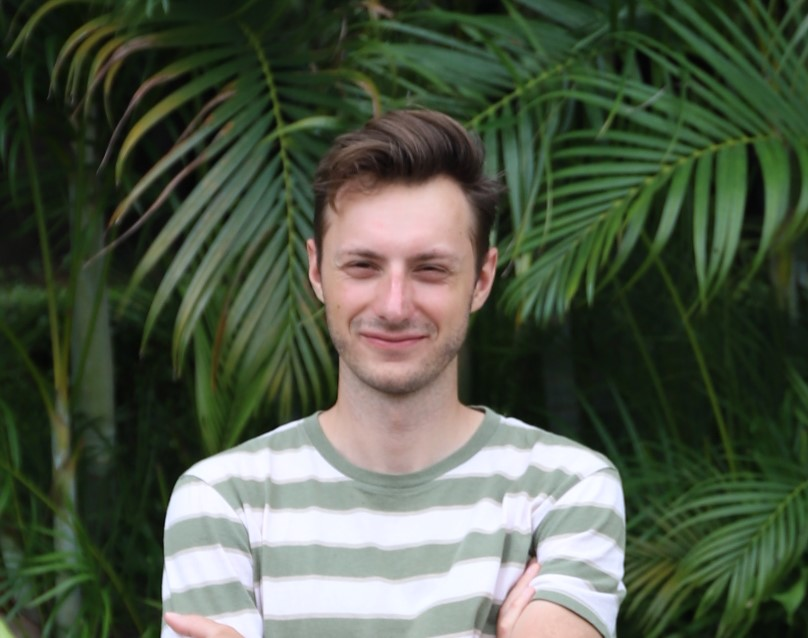
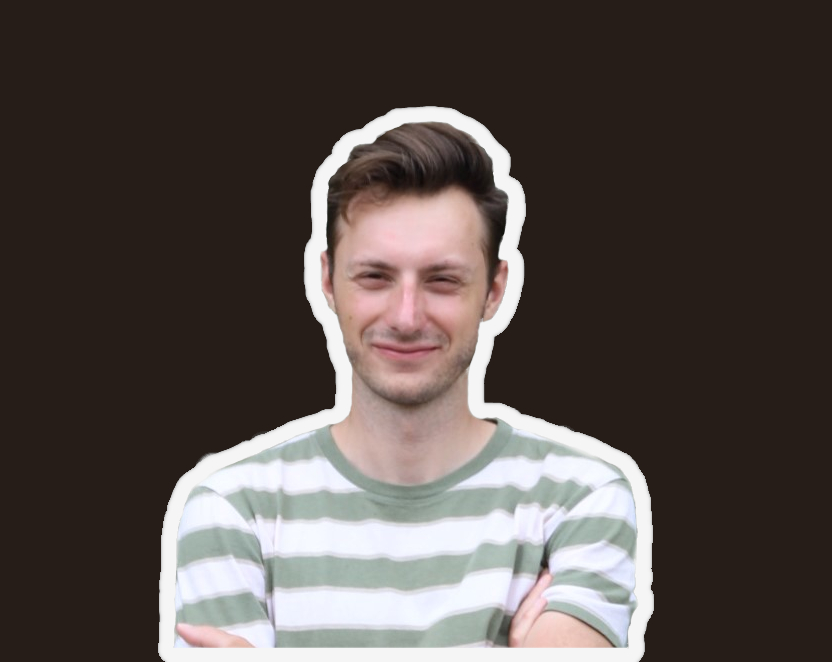
changed my image and header font styling

diff --git a/CSS/Style.css b/CSS/Style.css
@@ -2,14 +2,14 @@
 :root {
   --header: #00000020;
   --background: #EEEBE6;
-  --secondary: #36556d;
+  --secondary-background: #36556d;
   --highlight: #8AB5BB;
   --content-box: #F5F5F5;
-  --font1: #FFFFFF;
-  --font2: #000000E0;
-  --accent: #FFFFFF;
-  --accent2: #000000;
-  --accent3: #61A85680;
+  --font-bright: #FFFFFF;
+  --font-dark: #000000E0;
+  --accent-bright: #FFFFFF;
+  --accent-dark: #000000;
+  --accent-mid: #245357;
 }
 
 body,
@@ -38,7 +38,7 @@ header {
   background-color: var(--header);
   backdrop-filter: blur(5px);
   justify-content: space-between;
-  border-bottom: solid 1px var(--accent);
+  border-bottom: solid 1px var(--accent-bright);
 }
 
 /* SECTIONS LAYOUT AND STYLE */
@@ -60,7 +60,7 @@ footer {
   height: 100vh;
   width: 100%;
   scroll-snap-align: start;
-  background-color: var(--secondary);
+  background-color: var(--secondary-background);
 }
 
 ul {
@@ -123,7 +123,7 @@ a {
   font-family: Josefin Sans;
   font-size: 1.5em;
   text-decoration: none;
-  color: var(--font2);
+  color: var(--font-dark);
   transition: color 0.2s;
 }
 
@@ -143,7 +143,7 @@ h1 {
   font-family: 'Josefin Sans', sans-serif;
   font-size: 4rem;
   font-weight: bold;
-  color: var(--font1);
+  color: var(--font-bright);
 }
 
 header h1 {
@@ -154,7 +154,7 @@ h2 {
   font-family: 'Josefin Sans', sans-serif;
   font-size: 3rem;
   font-weight: bold;
-  color: var(-/-font2);
+  color: var(--font-dark);
   margin-top: 0;
 }
 
@@ -198,34 +198,10 @@ p {
   flex-direction: column;
   justify-content: space-between;
   font-size: 3rem;
-  color: var(--font1);
+  color: var(--font-bright);
 }
 
 /* SECTION ONE - HOME */
-
-/* #one-quote-container {
-  grid-column: 2/span 2;
-  grid-row: 2/span 2;
-  display: block;
-  padding: 0px 40px 0px 40px;
-  height:fit-content;
-  width: fit-content;
-  z-index: 2;
-  margin-top: 2rem;
-}
-
-#one-quote-container p:nth-child(1) {
-  color: var(--font2);
-  font-size: 1.5rem;
-  font-style: italic;
-  margin: 0;
-}
-
-#one-quote-container p:nth-child(2) {
-  color: var(--secondary);
-  text-align: end;
-  margin: 5px;
-} */
 
 #one-heading-container {
   grid-column: 2/span 2;
@@ -235,9 +211,9 @@ p {
   flex-direction: column;
   row-gap: 3px;
   justify-content: center;
-  color: var(--font1);
-  mix-blend-mode: difference;
-  color: var(--font1);
+  color: var(--accent-mid);
+  text-shadow: 3px 3px var(--highlight);
+  font-weight: bold;
 }
 
 #one-heading-container h1 {
@@ -245,7 +221,8 @@ p {
   margin: 0;
   margin-left: 40px;
   transform: translate(0px, 4.5rem);
-  /* color: white; */
+  color: var(--content-box);
+  text-shadow: 4px 3px var(--highlight);
 }
 
 #one-heading-container p {
@@ -296,13 +273,14 @@ p {
   z-index: 0;
   max-width: 100%;
   height: auto;
+  background-color: var(--secondary-background);
 }
 
 #introduction {
   display: flex;
   align-items: center;
   text-align: left;
-  color: var(--font2);
+  color: var(--font-dark);
   height: auto;
 }
 
@@ -366,7 +344,7 @@ p {
   grid-row: 2;
   margin-left: 40px;
   text-align: left;
-  color: var(--font2);
+  color: var(--font-dark);
 }
 
 #four-content-container {
@@ -391,8 +369,8 @@ p {
   min-width: 200px;
   display: block;
   padding: 5px;
-  background-color: white;
-  border: solid 2px var(--font2);
+  background-color: var(--content-box);
+  border: solid 1px var(--font-dark);
   border-radius: 15px;
 }
 
@@ -415,16 +393,16 @@ p {
   width: 100%;
   height: fit-content;
   min-height: 100%;
-  background-color: var(--accent);
+  background-color: var(--content-box);
   display: flex;
   flex-direction: column;
   align-items:flex-start;
   justify-content: space-between;
   box-sizing: border-box;
   padding: 20px;
-  color: var(--font2);
+  color: var(--font-dark);
   text-align: justify;
-  border: solid 2px var(--font2);
+  border: solid 1px var(--font-dark);
   border-radius: 15px;
   opacity: 0;
   transform: translate(0);
@@ -458,7 +436,7 @@ line-height: 1.5rem;
 
 .project-card:hover {
   background-color: transparent;
-  border: dashed 2px var(--font2);
+  border: dashed 1px var(--font-dark);
 
   .card-image {
     display: none;
@@ -507,6 +485,7 @@ line-height: 1.5rem;
   display: flex;
   align-items: center;
   flex-wrap: wrap;
+  
 }
 
 fieldset {
@@ -520,6 +499,8 @@ fieldset {
   width: 100%;
   height: 100%;
   padding: 40px;
+  border: solid 1px var(--font-dark);
+  
 }
 
 .contact-row {
@@ -541,7 +522,7 @@ input, textarea {
   font-family: 'Courier New', Courier, monospace;
   display: block;
   border: 0;
-  border-bottom: 1px solid var(--accent2);
+  border-bottom: 1px solid var(--accent-dark);
   background: transparent;
   box-sizing: border-box;
   font-size: 1rem;
@@ -586,8 +567,8 @@ label {
 }
 
 .send-button:hover{
-  background-color: var(--secondary);
-  color: var(--font1);
+  background-color: var(--secondary-background);
+  color: var(--font-bright);
 }
 
 .send-button:active {
@@ -611,7 +592,7 @@ label {
 
 .bottom-bar {
   z-index: 1;
-  background-color: var(--secondary);
+  background-color: var(--secondary-background);
   grid-column: 1/ span 5;
   grid-row: 6/ span 2;
 }
@@ -623,7 +604,7 @@ label {
 }
 
 .contact-content-header {
-  border-bottom: 1px solid var(--accent);
+  border-bottom: 1px solid var(--accent-bright);
   color: var(--highlight);
   letter-spacing: 0.3rem;
   margin-bottom: 2rem;
@@ -638,7 +619,7 @@ label {
   height: fit-content;
   justify-content: space-between;
   row-gap: 8rem;
-  color: var(--font1);
+  color: var(--font-bright);
 
 }
 
@@ -697,8 +678,8 @@ label {
 }
 
 .contact-links .page-link {
-  color: var(--font1);
-  font-size: 1.5em;
+  color: var(--font-bright);
+  font-size: 1.3rem;
   font-weight: lighter;
 }
 
@@ -712,7 +693,7 @@ label {
 
 .contact-details p {
   margin: 0;
-  font-size: 1rem;
+  font-size: 1.3rem;
   font-weight: lighter;
 }
 
@@ -722,7 +703,7 @@ label {
   padding-top: 10px;
   grid-column: 1/ span 7;
   grid-row: 5/ span 1;
-  border-top: 1px solid var(--accent);
+  border-top: 1px solid var(--accent-bright);
 }
 
 #foot p {

diff --git a/index.html b/index.html
@@ -26,10 +26,6 @@
       </nav>
     </div>
     <section id="home" class="one">
-      <!-- <div id="one-quote-container">
-        <p>“The summit is what drives us, but the climb itself is what matters.” </p>
-        <p>Conrad Anker - American mountaineer</p>
-      </div> -->
 
       <div id="one-heading-container">
         <h1>Hey, I'm Oskar! </h1>
@@ -51,7 +47,7 @@
       </div>
       <div id="one-content-container">
         <div id="one-content">
-          <img id="img-me" src="Assets/Me.JPG" alt="Photo of the author">
+          <img id="img-me" src="Assets/Me.png" alt="Photo of the author">
           <div id="introduction">
             <p>You might have noticed that I like mountains, but get to know me better through this page!</p>
           </div>
@@ -127,7 +123,7 @@
             </p>
             <p>
               However, I would not consider it if coding was not simply really fun to me. Previously, I never identified
-              myself as a "computer guy," steering towards other interests on the boundary of creative and technical
+              myself as a "computer guy", steering towards other interests on the boundary of creative and technical
               fields. Yet, it just shows that trying completely new things can bring some pretty surprising
               self-discoveries.
             </p>
@@ -167,7 +163,7 @@
         <div id="card-two" class="project-card">
           <div class="card-content">
             <p>
-              Reaching 6kyu on CodeWars was a true crash course in the basics of JavaScript. Having previously studied
+              Reaching 6kyu on Codewars was a true crash course in the basics of JavaScript. Having previously studied
               Python, I found the switch to JavaScript somewhat easier, yet still positively challenging.
             </p>
             <p>
@@ -179,7 +175,7 @@
             <img src="Assets/codeWars.PNG" alt="Project" />
           </div>
           <div class="card-heading">
-            <h3>Code Wars</h3>
+            <h3>Codewars</h3>
           </div>
         </div>
         <div id="card-three" class="project-card">
@@ -278,10 +274,10 @@
           <a href="https://www.linkedin.com/in/oskar-przybylski/" class="page-link" target="_blank"><abbr
               title="Linkedin" class="page-link">Linkedin</abbr></a>
           <a href="https://www.codewars.com/users/Oskar23" class="page-link" target="_blank"><abbr title="Codewars"
-              class="page-link">Code Wars</abbr></a>
+              class="page-link">Codewars</abbr></a>
           <a href="https://github.com/oskarprzybylski23" class="page-link" target="_blank"><abbr title="GitHub"
-              class="page-link">Git Hub</abbr></a>
-          <a href="https://www.instagram.com/oskar.przybylski/" class="page-link" target="_blank"><abbr title="GitHub"
+              class="page-link">GitHub</abbr></a>
+          <a href="https://www.instagram.com/oskar.przybylski/" class="page-link" target="_blank"><abbr title="Instagram"
               class="page-link">Instagram</abbr></a>
         </nav>
       </div>

diff --git a/script.js b/script.js
@@ -72,6 +72,32 @@ document.addEventListener('DOMContentLoaded', function () {
       });
     }
   });
+
+  const content = document.getElementById('one');
+  const text = document.querySelector('#one-heading-container');
+
+// Get the brightness of the background color
+function getBrightness(rgb) {
+  const [r, g, b] = rgb.match(/\d+/g);
+  return (r * 299 + g * 587 + b * 114) / 1000;
+}
+
+// Change the blend mode based on the background brightness
+function updateBlendMode() {
+  const bgColor = window.getComputedStyle(content).getPropertyValue('background-color');
+  const brightness = getBrightness(bgColor);
+
+  if (brightness > 125) {
+    text.style.mixBlendMode = 'difference'; // Set blend mode to difference for bright backgrounds
+  } else {
+    text.style.mixBlendMode = 'screen'; // Set blend mode to screen for dark backgrounds
+  }
+}
+
+// Call the function initially and whenever the window is resized
+window.addEventListener('DOMContentLoaded', updateBlendMode);
+window.addEventListener('resize', updateBlendMode);
+
 });
 
 
